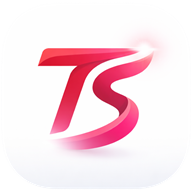
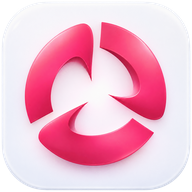
Improve brand identity in search results

diff --git a/components/Layout.tsx b/components/Layout.tsx
@@ -87,6 +87,7 @@ import AiSparkleIcon from './ai/AiSparkleIcon';
 import ActionIcon from './common/ActionIcon';
 import NotificationUnreadBadge from './notifications/NotificationUnreadBadge';
 import SidebarMenu from './layout/SidebarMenu';
+import TazeSystemAttribution from './common/TazeSystemAttribution';
 import { resolveMobileKeyboardViewport } from '../utils/mobileKeyboardViewport';
 import { ADVERTISING_CAMPAIGNS_MODULE_ID } from '../utils/advertisingCampaigns';
 import { renderModuleIcon } from '../utils/moduleIcons';
@@ -1499,7 +1500,8 @@ const Layout: React.FC<LayoutProps> = ({ children, isDarkMode, toggleTheme, bran
         theme={isDarkMode ? 'dark' : 'light'}
         width={260}
       >
-        <div className="h-16 flex items-center justify-center border-b border-gray-200 dark:border-dark-border overflow-hidden px-4 sticky top-0 bg-inherit z-10">
+        <div className="flex h-full min-h-0 flex-col">
+        <div className="h-16 shrink-0 flex items-center justify-center border-b border-gray-200 dark:border-dark-border overflow-hidden px-4 sticky top-0 bg-inherit z-10">
           <div className={`transition-all duration-300 font-black text-lg text-leather-500 tracking-tighter whitespace-nowrap ${collapsed ? 'opacity-0 w-0 hidden' : 'opacity-100'}`}>
             {brandShortName}
           </div>
@@ -1517,7 +1519,7 @@ const Layout: React.FC<LayoutProps> = ({ children, isDarkMode, toggleTheme, bran
           />
         )}
 
-        <div className="h-[calc(var(--app-viewport-height,100dvh)-64px)] overflow-y-auto">
+        <div className="min-h-0 flex-1 overflow-y-auto">
             <SidebarMenu
               items={menuItems}
               selectedKey={selectedSidebarKey}
@@ -1527,6 +1529,13 @@ const Layout: React.FC<LayoutProps> = ({ children, isDarkMode, toggleTheme, bran
               isDarkMode={isDarkMode}
               onNavigate={handleSidebarNavigate}
             />
+        </div>
+        <div
+          className="flex shrink-0 items-center justify-center border-t border-gray-100 px-3 pt-1 dark:border-dark-border"
+          style={{ paddingBottom: 'max(4px, env(safe-area-inset-bottom))' }}
+        >
+          <TazeSystemAttribution collapsed={collapsed && !isMobile} />
+        </div>
         </div>
       </Sider>
 

diff --git a/utils/seoHelpers.ts b/utils/seoHelpers.ts
@@ -1,7 +1,9 @@
-const SITE_NAME = 'تازه سیستم';
-const SITE_URL = 'https://tazesystem.ir';
+import { PUBLIC_SITE_NAME, PUBLIC_SITE_URL, publicOrganizationSchema, publicWebsiteSchema } from '../shared/publicBrandSeo.mjs';
+
+const SITE_NAME = PUBLIC_SITE_NAME;
+const SITE_URL = PUBLIC_SITE_URL;
 const SITE_DESCRIPTION = 'تازه سیستم؛ CRM ایرانی دارای هوش مصنوعی، دایرکت هوشمند اینستاگرام و نرمافزار یکپارچه فروش، حسابداری، پروژه، فرآیند و منابع انسانی برای کسبوکارها';
-const DEFAULT_OG_IMAGE = `${SITE_URL}/og-default.png`;
+const DEFAULT_OG_IMAGE = `${SITE_URL}/logo.png`;
 const TWITTER_HANDLE = '@tazesystem';
 
 export type JsonLdObject = Record<string, unknown>;
@@ -55,35 +57,11 @@ export function calculateReadingTime(blocks: Block[]): number {
 // JSON-LD generators
 // ──────────────────────────────────────────────────
 export function generateOrganizationJsonLd(): JsonLdObject {
-  return {
-    '@context': 'https://schema.org',
-    '@type': 'Organization',
-    name: SITE_NAME,
-    url: SITE_URL,
-    logo: `${SITE_URL}/logo.png`,
-    sameAs: [],
-    contactPoint: {
-      '@type': 'ContactPoint',
-      contactType: 'customer service',
-      availableLanguage: 'Persian',
-    },
-  };
+  return publicOrganizationSchema();
 }
 
 export function generateWebSiteJsonLd(): JsonLdObject {
-  return {
-    '@context': 'https://schema.org',
-    '@type': 'WebSite',
-    name: SITE_NAME,
-    url: SITE_URL,
-    description: SITE_DESCRIPTION,
-    inLanguage: 'fa-IR',
-    potentialAction: {
-      '@type': 'SearchAction',
-      target: { '@type': 'EntryPoint', urlTemplate: `${SITE_URL}/search?q={search_term_string}` },
-      'query-input': 'required name=search_term_string',
-    },
-  };
+  return publicWebsiteSchema();
 }
 
 export function generateBreadcrumbJsonLd(

diff --git a/components/common/TazeSystemAttribution.tsx b/components/common/TazeSystemAttribution.tsx
@@ -1,0 +1,45 @@
+import React from 'react';
+import { TAZE_SYSTEM_BRAND_ASSETS } from '../../utils/tazeSystemBrandAssets';
+
+type Props = {
+  variant?: 'sidebar' | 'account';
+  collapsed?: boolean;
+};
+
+// Product attribution is shared by all organizations, independent of tenant identity.
+const TazeSystemAttribution: React.FC<Props> = ({ variant = 'sidebar', collapsed = false }) => {
+  const account = variant === 'account';
+  const iconOnly = !account && collapsed;
+  return (
+    <a
+      href="https://tazesystem.ir"
+      target="_blank"
+      rel="noopener noreferrer"
+      aria-label="تازه سیستم، نرمافزار یکپارچه سازمانی — باز شدن در برگهٔ جدید"
+      title={iconOnly ? 'با فناوری تازه سیستم' : undefined}
+      className={`inline-flex min-h-11 max-w-full items-center gap-2 rounded-lg text-gray-500 transition-colors hover:text-gray-800 focus-visible:outline focus-visible:outline-2 focus-visible:outline-offset-2 focus-visible:outline-current dark:text-gray-400 dark:hover:text-gray-200 ${iconOnly ? 'w-11 justify-center' : 'px-1'}`}
+    >
+      <img
+        src={TAZE_SYSTEM_BRAND_ASSETS.logo}
+        alt=""
+        aria-hidden="true"
+        width={account ? 32 : 24}
+        height={account ? 32 : 24}
+        className="shrink-0 object-contain"
+        draggable={false}
+      />
+      {!iconOnly && (account ? (
+        <span className="min-w-0 text-right">
+          <span className="block text-sm font-semibold leading-5 text-gray-700 dark:text-gray-200">تازه سیستم</span>
+          <span className="block text-xs leading-5">نرمافزار یکپارچه سازمانی</span>
+        </span>
+      ) : (
+        <span className="whitespace-nowrap text-xs leading-5">
+          با فناوری <span className="font-semibold">تازه سیستم</span>
+        </span>
+      ))}
+    </a>
+  );
+};
+
+export default TazeSystemAttribution;

diff --git a/pages/PublicSite.tsx b/pages/PublicSite.tsx
@@ -1,3 +1,4 @@
+import { TAZE_SYSTEM_BRAND_ASSETS } from '../utils/tazeSystemBrandAssets';
 import React, { useEffect, useLayoutEffect, useMemo, useState } from 'react';
 import { CheckCircleOutlined, EnvironmentOutlined, MailOutlined, PhoneOutlined } from '@ant-design/icons';
 import { Link, useLocation } from 'react-router-dom';
@@ -65,7 +66,7 @@ const Header = () => (
     <a href="#public-page-content" className="sr-only focus:not-sr-only focus:absolute focus:bg-white focus:p-3">رفتن به محتوای صفحه</a>
     <div className="mx-auto flex h-20 max-w-7xl items-center justify-between px-5">
       <Link to={sitePath('/')} className="flex items-center gap-3 text-zinc-950">
-        <img src="/tazesystem_logo.png" alt="لوگوی تازه سیستم" className="h-11 w-11 rounded-xl object-contain" />
+        <img src={TAZE_SYSTEM_BRAND_ASSETS.logo} alt="لوگوی تازه سیستم" className="h-11 w-11 rounded-xl object-contain" />
         <div className="leading-tight">
           <div className="text-lg font-black">تازه سیستم</div>
           <div className="text-xs font-medium text-zinc-500">نرمافزار یکپارچه کسبوکار</div>
@@ -129,7 +130,7 @@ const Footer = () => {
       <div className="mx-auto grid max-w-7xl gap-10 px-5 py-12 md:grid-cols-[1.4fr_1fr_1fr_1.1fr]">
         <div>
           <Link to={sitePath('/')} className="inline-flex items-center gap-3 text-zinc-950">
-            <img src="/tazesystem_logo.png" alt="تازه سیستم" className="h-10 w-10 rounded-xl object-contain" />
+            <img src={TAZE_SYSTEM_BRAND_ASSETS.logo} alt="تازه سیستم" className="h-10 w-10 rounded-xl object-contain" />
             <span className="text-lg font-black">تازه سیستم</span>
           </Link>
           <p className="mt-4 max-w-sm text-sm leading-7 text-zinc-600">{tagline}</p>

diff --git a/components/publicSite/shared/BrandSymbol.tsx b/components/publicSite/shared/BrandSymbol.tsx
@@ -1,3 +1,4 @@
+import { TAZE_SYSTEM_BRAND_ASSETS } from '../../../utils/tazeSystemBrandAssets';
 import React, { useEffect, useRef } from 'react';
 import { motion, useMotionValue, useReducedMotion, useSpring, useTransform } from 'framer-motion';
 
@@ -47,7 +48,7 @@ const BrandSymbol: React.FC = () => {
         <div className="brand-symbol__layer brand-symbol__layer--back" aria-hidden="true" />
         <div className="brand-symbol__layer brand-symbol__layer--middle" aria-hidden="true" />
         <div className="brand-symbol__core">
-          <img src="/tazesystem_logo.png" width="210" height="210" alt="تازه سیستم" draggable={false} />
+          <img src={TAZE_SYSTEM_BRAND_ASSETS.hero} width="210" height="210" alt="تازه سیستم" draggable={false} />
           <motion.div className="brand-symbol__light" style={{ x: reduceMotion ? '-50%' : lightX, y: reduceMotion ? '-50%' : lightY }} aria-hidden="true" />
         </div>
         <span className="brand-symbol__word brand-symbol__word--one">مشتریان</span>

diff --git a/pages/Settings/AccountStatusTab.tsx b/pages/Settings/AccountStatusTab.tsx
@@ -13,6 +13,7 @@ import { toFaErrorMessage } from '../../utils/errorMessageFa';
 import { SAAS_FEATURE_LABELS, SAAS_MODULE_LABELS } from '../../utils/saasOfferingCatalog';
 import DemoDataCard from '../../components/saas/DemoDataCard';
 import AccountPlanCards from '../../components/saas/AccountPlanCards';
+import TazeSystemAttribution from '../../components/common/TazeSystemAttribution';
 import PriceAmountInput from '../../components/PriceAmountInput';
 import { CheckoutDiscounts, TERM_OPTIONS, planCheckoutTotal } from '../../utils/saasCheckoutPricing';
 
@@ -302,6 +303,7 @@ const AccountStatusTab: React.FC = () => {
 
   return (
     <div className="space-y-6 pb-8">
+      <TazeSystemAttribution variant="account" />
       <DemoDataCard />
       <div className="rounded-3xl bg-gradient-to-l from-slate-950 via-slate-800 to-indigo-900 p-5 text-white shadow-lg md:p-7">
         <div className="flex flex-col justify-between gap-5 md:flex-row md:items-start">

diff --git a/pages/SaasPortalPage.tsx b/pages/SaasPortalPage.tsx
@@ -1,3 +1,4 @@
+import { TAZE_SYSTEM_BRAND_ASSETS } from '../utils/tazeSystemBrandAssets';
 import React, { useCallback, useEffect, useRef, useState } from 'react';
 import { flushSync } from 'react-dom';
 import { Alert, Button, ConfigProvider, Input, Select, theme as antdTheme } from 'antd';
@@ -114,7 +115,7 @@ const SAAS_WIZARD_FORM_STORAGE_KEY = 'kalam_saas_wizard_form';
 
 const Logo = () => (
   <div className="flex items-center gap-3 mb-10">
-    <img src="/tazesystem_logo.png" alt="تازه سیستم" className="h-10 w-10 rounded-xl object-contain" />
+    <img src={TAZE_SYSTEM_BRAND_ASSETS.logo} alt="تازه سیستم" className="h-10 w-10 rounded-xl object-contain" />
     <span className="text-lg font-black text-slate-900">تازه سیستم</span>
   </div>
 );

diff --git a/index.html b/index.html
@@ -2,9 +2,9 @@
 <html lang="fa" dir="rtl">
   <head>
     <meta charset="UTF-8" />
-    <link rel="icon" type="image/png" href="./tazesystem_logo.png" />
-    <link rel="manifest" href="/manifest.webmanifest" />
-    <link rel="apple-touch-icon" href="/apple-touch-icon.png" />
+    <link rel="icon" type="image/png" href="/favicon.png?v=f01" sizes="64x64" />
+    <link rel="manifest" href="/manifest.webmanifest?v=f01" />
+    <link rel="apple-touch-icon" href="/apple-touch-icon.png?v=f01" />
     <meta name="theme-color" content="#1677ff" />
     <meta name="apple-mobile-web-app-capable" content="yes" />
     <meta name="mobile-web-app-capable" content="yes" />

diff --git a/App.tsx b/App.tsx
@@ -1,3 +1,4 @@
+import { TAZE_SYSTEM_BRAND_ASSETS } from './utils/tazeSystemBrandAssets';
 import { Suspense, lazy, useCallback, useEffect, useMemo, useRef, useState } from "react";
 import { HelmetProvider } from "react-helmet-async";
 import { createRoot } from "react-dom/client";
@@ -355,7 +356,7 @@ const MarketingSiteHostApp: React.FC = () => {
     const link: HTMLLinkElement = existing || document.createElement("link");
     link.rel = "icon";
     link.type = "image/png";
-    link.href = "/tazesystem_logo.png";
+    link.href = TAZE_SYSTEM_BRAND_ASSETS.favicon;
     if (!existing) document.head.appendChild(link);
   }, []);
 

diff --git a/components/stories/StoryRing.tsx b/components/stories/StoryRing.tsx
@@ -1,3 +1,4 @@
+import { TAZE_SYSTEM_BRAND_ASSETS } from '../../utils/tazeSystemBrandAssets';
 import React from 'react';
 import { PlusOutlined, PushpinFilled } from '@ant-design/icons';
 import { Tooltip } from 'antd';
@@ -205,7 +206,7 @@ export const StoryRing: React.FC<StoryRingProps> = ({ story, size = 60, onClick 
             }}
           >
             <img
-              src="/pwa-192.png"
+              src={TAZE_SYSTEM_BRAND_ASSETS.logo}
               alt="تازهسیستم"
               style={{ width: '100%', height: '100%', objectFit: 'cover', borderRadius: '50%' }}
               onError={(e) => {

diff --git a/utils/brandingRuntime.ts b/utils/brandingRuntime.ts
@@ -1,4 +1,4 @@
-import tazeSystemLogo from "../src/tazesystem_logo.png";
+import { TAZE_SYSTEM_BRAND_ASSETS } from "./tazeSystemBrandAssets";
 import {
   BRANDING_INTEGRATION_CONNECTION_TYPE,
   BRANDING_INTEGRATION_PROVIDER,
@@ -161,7 +161,7 @@ const upsertFaviconLink = () => {
   return next;
 };
 
-const DEFAULT_FAVICON_PATH = tazeSystemLogo;
+const DEFAULT_FAVICON_PATH = TAZE_SYSTEM_BRAND_ASSETS.favicon;
 
 const resolveSafeFaviconHref = (iconUrl?: string | null) => {
   const rawValue = String(iconUrl || "").trim();

diff --git a/components/publicSite/publicSiteTheme.ts b/components/publicSite/publicSiteTheme.ts
@@ -2,6 +2,6 @@ import { BRAND_PALETTE_PRESETS, buildBrandCssVars } from '../../theme/brandTheme
 import type { LandingTheme } from './BrandScope';
 
 // Public marketing identity is independent of tenant branding. The primary
-// (#F82377) is sampled from public/tazesystem_logo.png at pixel (460, 500).
+// (#F82377) is the approved F01 master color.
 export const PUBLIC_SITE_THEME: LandingTheme = { paletteKey: 'taze_rose' };
 export const PUBLIC_SITE_CSS_VARS = buildBrandCssVars(BRAND_PALETTE_PRESETS.taze_rose.palette);
